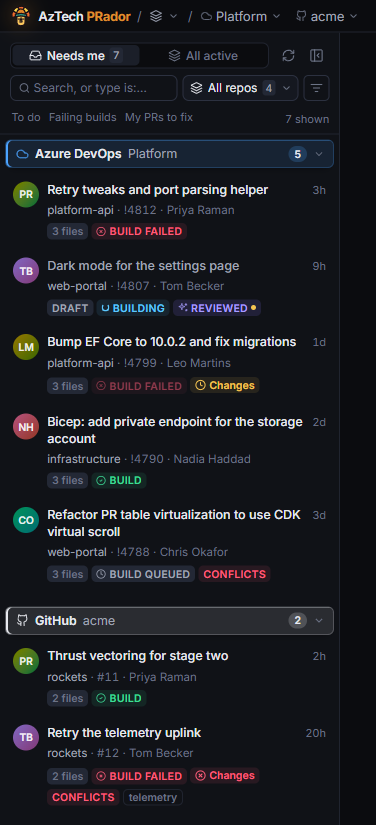
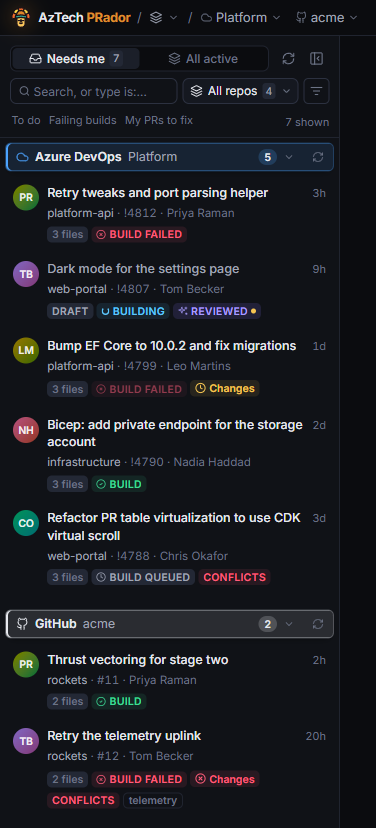
User guide for 0.10.7

diff --git a/docs/pull-requests.md b/docs/pull-requests.md
@@ -65,7 +65,7 @@ The title bar switches between Azure DevOps and GitHub. You land where you last 
 
 ### Both at once
 
-Once you have an Azure DevOps project and a GitHub organization, pick **Azure DevOps and GitHub** in the same menu: the list shows both, each in a section of its own under a header in its provider's colour (blue for Azure DevOps, grey for GitHub), Azure DevOps on top. A section's header stays at the top while you scroll through its PRs. Each section has its count, and folds away when you click its header (it stays folded until you open it again). The title bar shows where each side's PRs come from, with a switcher for each (the provider menu before them shows just its icon then).
+Once you have an Azure DevOps project and a GitHub organization, pick **Azure DevOps and GitHub** in the same menu: the list shows both, each in a section of its own under a header in its provider's colour (blue for Azure DevOps, grey for GitHub), Azure DevOps on top. A section's header stays at the top while you scroll through its PRs. The small reload button at the end of a header reads just that provider's PRs again; the refresh button at the top reads both. Each section has its count, and folds away when you click its header (it stays folded until you open it again). The title bar shows where each side's PRs come from, with a switcher for each (the provider menu before them shows just its icon then).
 
 ![The PR list with Azure DevOps and GitHub, a section each](images/both-providers.png)
 
@@ -93,7 +93,7 @@ The header has the PR's title, branches, author and reviewers with their votes, 
 - **Approve** votes on the PR. The menu next to it has the other votes: approve with suggestions, wait for author, reject, or reset your vote (on GitHub: request changes). Every vote shows a confirmation first.
 - The **layout** buttons switch between **Diff**, **Split** and **Review** (<kbd>1</kbd>, <kbd>2</kbd>, <kbd>3</kbd>): the diff alone, the diff and the panel side by side, or the panel alone. In **Split**, drag the panel's left edge to make it wider or narrower (double-click it for the default width).
 - **Open in ADO** (or **Open in GitHub**) opens the PR in your browser.
-- On **your own PRs**: **Complete…** (**Merge…** on GitHub) merges it. Pick the merge type (it starts on the default you set for each provider in **Settings**: **Squash commit** on Azure DevOps and **Create a merge commit** on GitHub until you change them) and the commit message, and whether the source branch is deleted and (Azure DevOps) the linked work items move on. The dialog lists the required checks that haven't passed yet; Azure DevOps may refuse to complete until they do. The menu next to it has **Set auto-complete…** (**Merge when ready…** on GitHub: it merges on its own once the checks pass), **Publish** for a draft, and **Abandon…** (**Close…**). Each asks before it does anything. Completing, setting auto-complete and abandoning ask once more, in a Windows dialog: the change happens only when you confirm there too. **Write the description…**, in the same menu, has an agent write the PR's description from its changes (and its work items): edit it, then **Update the description…** replaces the current one, after a confirmation that shows it.
+- On **your own PRs**: **Complete…** (**Merge…** on GitHub) merges it. Pick the merge type (it starts on the default you set for each provider in **Settings**: **Squash commit** on Azure DevOps and **Create a merge commit** on GitHub until you change them) and the commit message, and whether the source branch is deleted and (Azure DevOps) the linked work items move on. The dialog lists the required checks that haven't passed yet; Azure DevOps may refuse to complete until they do. The menu next to it has **Set auto-complete…** (**Merge when ready…** on GitHub: it merges on its own once the checks pass), **Publish** for a draft, and **Abandon…** (**Close…**). Each asks before it does anything. Completing, setting auto-complete and abandoning ask once more, in a small window of their own (it says **Asked again by the app itself**): the change happens only when you confirm there too. **Write the description…**, in the same menu, has an agent write the PR's description from its changes (and its work items): edit it, then **Update the description…** replaces the current one, after a confirmation that shows it.
 
 ### The diff
 

diff --git a/docs/fix-mode.md b/docs/fix-mode.md
@@ -63,7 +63,7 @@ The **Changes** tab shows what changed in your folder, file by file, and which c
 Then:
 
 - **Commit…**: pick the files. What the agent changed in this session is picked at first. Files that were already changed before the session started aren't, and say so: tick them if you want them in. A message is suggested, and you can change it.
-- **Push…**: shows the commits and files that will be pushed, and pushes after you confirm, in the window and then in a Windows dialog that lists them again. It never force-pushes. When there's nothing to push yet, the tab says why under the buttons.
+- **Push…**: shows the commits and files that will be pushed, and pushes after you confirm, in the window and then in a second, smaller window that lists them again. It never force-pushes. When there's nothing to push yet, the tab says why under the buttons.
 
 Both wait while the agent is working. The agent is refused `git commit` and `git push`: you commit and push, with these buttons. **Commit…** runs your repository's git hooks. If a hook script your repository keeps (in `.husky`, say) has changes, the dialog lists it: look at it before you commit, or tick **Commit without running hooks**.
 
